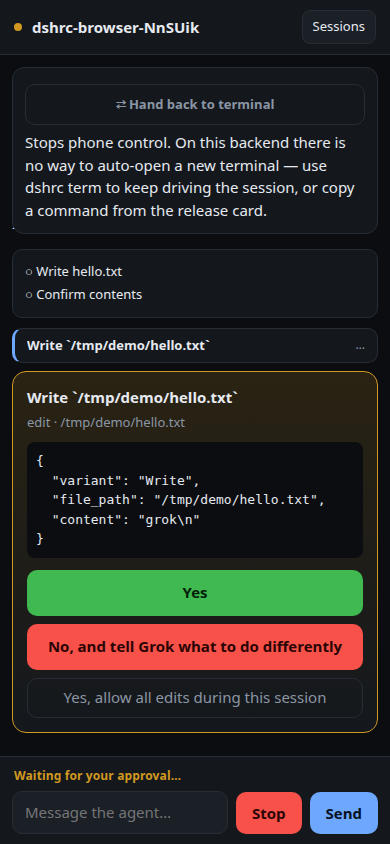
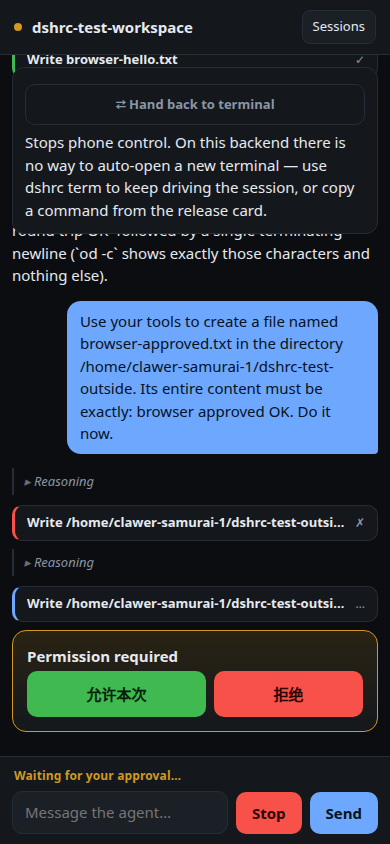
Session view opens as a control surface; screenshots are dshrc's own
The browser/phone session view mirrored the whole agent session into the
page — full transcript, reasoning bodies, raw tool payloads, explainer
cards. It now opens in Control view: status first, pending approvals
pinned at the top in their own zone, approvals showing a one-line summary
of what is being approved instead of the raw JSON, reasoning reduced to a
marker, and answered approvals collapsed to records in the feed. The
complete transcript remains one tap away under Full view (choice persists
per device). Presentation layer only — protocol and daemon untouched.

Screenshots: the README/docs images were the Grok client's — five files
byte-identical to grokrc's captures, the approval shot showing a Grok
session ("tell Grok what to do differently"), and resume-error.png a
duplicate of sessions.png. All replaced with captures taken from dshrc
itself against a live DeepSeek Harness session (2026-10-25 live run), or
removed where no genuine dshrc capture exists.

Verified: build, typecheck, lint, format clean; full suite 288 pass /
0 fail (browser tests drive the changed UI against the scripted agent).

diff --git a/web/app.js b/web/app.js
@@ -18,6 +18,7 @@ const ASSET_VERSION = new URL(import.meta.url).searchParams.get('v') ?? 'dev';
 const $ = (id) => document.getElementById(id);
 const TOKEN_KEY = 'dshrc.token';
 const RELAY_KEY = 'dshrc.relay';
+const VIEW_KEY = 'dshrc.viewMode';
 
 /**
  * Relay awareness.
@@ -109,6 +110,7 @@ const el = {
   conn: $('conn'),
   title: $('title'),
   back: $('back'),
+  viewToggle: $('view-toggle'),
   unreachable: $('unreachable'),
   unreachableRetry: $('unreachable-retry'),
   vPair: $('v-pair'),
@@ -140,12 +142,25 @@ const state = {
   planNode: null,
   busy: false,
   backoff: 500,
-  /** Daemon shares one `grok agent leader` backend — set from the ready frame. */
+  /** Set from the ready frame (compat field — deepseek-acp has no shared-backend leader mode). */
   leaderMode: false,
   /** The Resume button awaiting a reply, so a refusal can restore it. */
   pendingResume: null,
   /** Last successful hand-back — shown on the list until dismissed. */
   lastRelease: null,
+  /**
+   * Session presentation. 'control' (the default) renders the session as a
+   * control surface — status, pending approvals, one-line activity, answers —
+   * instead of mirroring the whole session transcript into the browser.
+   * 'full' renders the complete transcript, as the client always did before.
+   */
+  viewMode: (() => {
+    try {
+      return localStorage.getItem(VIEW_KEY) === 'full' ? 'full' : 'control';
+    } catch {
+      return 'control';
+    }
+  })(),
 };
 
 /* ─── views ──────────────────────────────────────────────────────────────── */
@@ -156,7 +171,30 @@ function show(view) {
   const inSession = view === el.vSession;
   el.composer.hidden = !inSession;
   el.back.hidden = !inSession;
+  if (el.viewToggle) el.viewToggle.hidden = !inSession;
 }
+
+function applyViewMode() {
+  document.body.classList.toggle('control-view', state.viewMode === 'control');
+  if (el.viewToggle) {
+    el.viewToggle.textContent = state.viewMode === 'control' ? 'Full view' : 'Control view';
+  }
+}
+
+el.viewToggle?.addEventListener('click', () => {
+  state.viewMode = state.viewMode === 'control' ? 'full' : 'control';
+  try {
+    localStorage.setItem(VIEW_KEY, state.viewMode);
+  } catch {
+    /* private mode — the choice just won't persist */
+  }
+  applyViewMode();
+  // Re-render the open session in the new mode — the daemon replays history
+  // on open, and every renderer branches on the mode.
+  if (state.current) sendMsg({ t: 'open', sessionId: state.current.id, cwd: state.current.cwd });
+});
+
+applyViewMode();
 
 /**
  * This client is older than the daemon it is talking to.
@@ -880,8 +918,8 @@ function renderTranscript(events) {
  * this closes the session here and hands over the command to reopen it there.
  *
  * Most of the time you do not need this — `dshrc term --session <id>` drives the
- * same session without anyone giving anything up. It is only for getting Grok's
- * own TUI back.
+ * same session without anyone giving anything up. It is only for getting the
+ * session back into a terminal.
  */
 function renderHandBackBar(s) {
   const bar = document.createElement('div');
@@ -1046,12 +1084,24 @@ function applyEvent(ev, replaying = false) {
     }
 
     case 'thinking': {
-      // Quiet by design: Grok's reasoning can be thousands of tokens and the
-      // terminal TUI barely shows it. Only the finished block is useful, and
+      // Quiet by design: the agent's reasoning can be thousands of tokens and
+      // the terminal barely shows it. Only the finished block is useful, and
       // even that is collapsed so the answer stays on screen.
       if (!ev.final) break;
       const text = (ev.text ?? '').trim();
       if (!text) break;
+      if (state.viewMode === 'control') {
+        // Control view: reasoning happened — that is all the surface shows.
+        // The body is the agent's internal monologue, not a control.
+        if (!state.thinkingNode) {
+          const marker = document.createElement('div');
+          marker.className = 'thinking slim';
+          marker.textContent = 'Reasoning';
+          el.vSession.append(marker);
+          state.thinkingNode = marker;
+        }
+        break;
+      }
       if (!state.thinkingNode) {
         const wrap = document.createElement('details');
         wrap.className = 'thinking';
@@ -1082,6 +1132,11 @@ function applyEvent(ev, replaying = false) {
       if (node) {
         node.classList.add('resolved');
         node.querySelectorAll('button').forEach((b) => (b.disabled = true));
+        // Control view: the pinned zone is only for decisions still needed.
+        // An answered card drops into the feed as a dimmed record.
+        if (state.viewMode === 'control' && node.parentElement?.id === 'approval-zone') {
+          el.vSession.append(node);
+        }
       }
       break;
     }
@@ -1107,8 +1162,8 @@ function applyEvent(ev, replaying = false) {
       if (!replaying && ev.fatal) setBusy(false, 'error');
       break;
 
-    // commands / mode / raw: deliberately ignored — metadata Grok's TUI does
-    // not paint, and the daemon no longer ships them on the wire.
+    // commands / mode / raw: deliberately ignored — metadata the terminal
+    // does not paint, and the daemon no longer ships them on the wire.
   }
   if (!replaying) scrollDown();
 }
@@ -1217,6 +1272,34 @@ function upsertPlan(ev) {
   state.planNode.replaceChildren(ul);
 }
 
+/** One line that says what an approval is about, without the raw payload. */
+function summarizeInput(input) {
+  if (typeof input === 'string') return input.replace(/\s+/g, ' ').slice(0, 140);
+  if (input && typeof input === 'object') {
+    const path = input.file_path ?? input.path ?? input.filePath;
+    const content = input.content ?? input.text ?? input.command;
+    const parts = [];
+    if (typeof path === 'string') parts.push(path);
+    if (typeof content === 'string') parts.push(content.replace(/\s+/g, ' ').slice(0, 80));
+    if (parts.length) return parts.join(' — ');
+    return JSON.stringify(input).slice(0, 140);
+  }
+  return String(input).slice(0, 140);
+}
+
+/** The pinned zone at the top of the session view where pending approvals live in control view. */
+function approvalZone() {
+  let zone = el.vSession.querySelector('#approval-zone');
+  if (!zone) {
+    zone = document.createElement('div');
+    zone.id = 'approval-zone';
+    const bar = el.vSession.querySelector('.resume-bar');
+    if (bar) bar.after(zone);
+    else el.vSession.prepend(zone);
+  }
+  return zone;
+}
+
 function upsertApproval(ev) {
   if (state.approvalNodes.has(ev.requestId)) return;
 
@@ -1237,9 +1320,18 @@ function upsertApproval(ev) {
   }
 
   if (ev.input !== undefined && ev.input !== null) {
-    const pre = document.createElement('pre');
-    pre.textContent = typeof ev.input === 'string' ? ev.input : JSON.stringify(ev.input, null, 2);
-    box.append(pre);
+    if (state.viewMode === 'control') {
+      // Control view shows WHAT is being approved — the target and a glimpse
+      // of the content — not the raw tool payload dumped as JSON.
+      const line = document.createElement('div');
+      line.className = 'input-line';
+      line.textContent = summarizeInput(ev.input);
+      box.append(line);
+    } else {
+      const pre = document.createElement('pre');
+      pre.textContent = typeof ev.input === 'string' ? ev.input : JSON.stringify(ev.input, null, 2);
+      box.append(pre);
+    }
   }
 
   const row = document.createElement('div');
@@ -1279,7 +1371,8 @@ function upsertApproval(ev) {
   box.append(row);
 
   state.approvalNodes.set(ev.requestId, box);
-  el.vSession.append(box);
+  if (state.viewMode === 'control') approvalZone().append(box);
+  else el.vSession.append(box);
   scrollDown();
 
   // Buzz — this is the moment the whole product exists for.

diff --git a/web/index.html b/web/index.html
@@ -264,6 +264,30 @@
     70% { box-shadow: 0 0 0 8px rgba(110, 168, 254, 0); }
     100% { box-shadow: 0 0 0 0 rgba(110, 168, 254, 0); }
   }
+
+  /* ─── control view (the default session presentation) ───────────────────
+     The session as a control surface: status up top, pending approvals
+     pinned where the thumb is, one-line activity, and the agent's answers.
+     The full transcript stays one tap away ("Full view" in the header). */
+  #approval-zone { position: sticky; top: 0; z-index: 6; }
+  #approval-zone:empty { display: none; }
+  .approval .input-line {
+    color: var(--dim); font-size: 13px; margin-bottom: 10px;
+    white-space: nowrap; overflow: hidden; text-overflow: ellipsis;
+  }
+  .control-view .resume-bar { padding: 8px; margin-bottom: 10px; }
+  .control-view .resume-bar .sub { display: none; }
+  .control-view .thinking.slim {
+    border-left: 0; padding: 2px 0; margin-bottom: 8px;
+    font-style: italic; font-size: 12px;
+  }
+  .control-view .msg { margin-bottom: 8px; }
+  /* An answered approval is a record, not a decision — collapse it. */
+  .control-view .approval.resolved { padding: 8px 14px; }
+  .control-view .approval.resolved .input-line,
+  .control-view .approval.resolved .why,
+  .control-view .approval.resolved .row { display: none; }
+  .control-view .approval.resolved h3 { margin: 0; font-size: 13px; font-weight: 500; }
 </style>
 </head>
 <body>
@@ -272,6 +296,7 @@
   <span class="dot" id="conn"></span>
   <span class="title" id="title">dshrc</span>
   <button id="back" hidden>Sessions</button>
+  <button id="view-toggle" hidden>Full view</button>
 </header>
 
 <div class="unreachable-bar" id="unreachable" hidden role="alert">

diff --git a/CHANGELOG.md b/CHANGELOG.md
@@ -11,6 +11,11 @@ Pre-1.0: the minor version may change behaviour. Read the notes before upgrading
 
 - Documentation: launch restructure — News and roadmap sections, components and
   verification, credits and citation; logo and social-preview assets added.
+- The session view now opens as a control surface: status first, the approvals
+  that need you pinned at the top, one-line activity, and the agent's answers.
+  The complete transcript is one tap away under "Full view".
+- Screenshots in the README and docs are captured from dshrc itself, driving a
+  live DeepSeek Harness session.
 
 
 ## [0.1.0] — 2026-09-05
